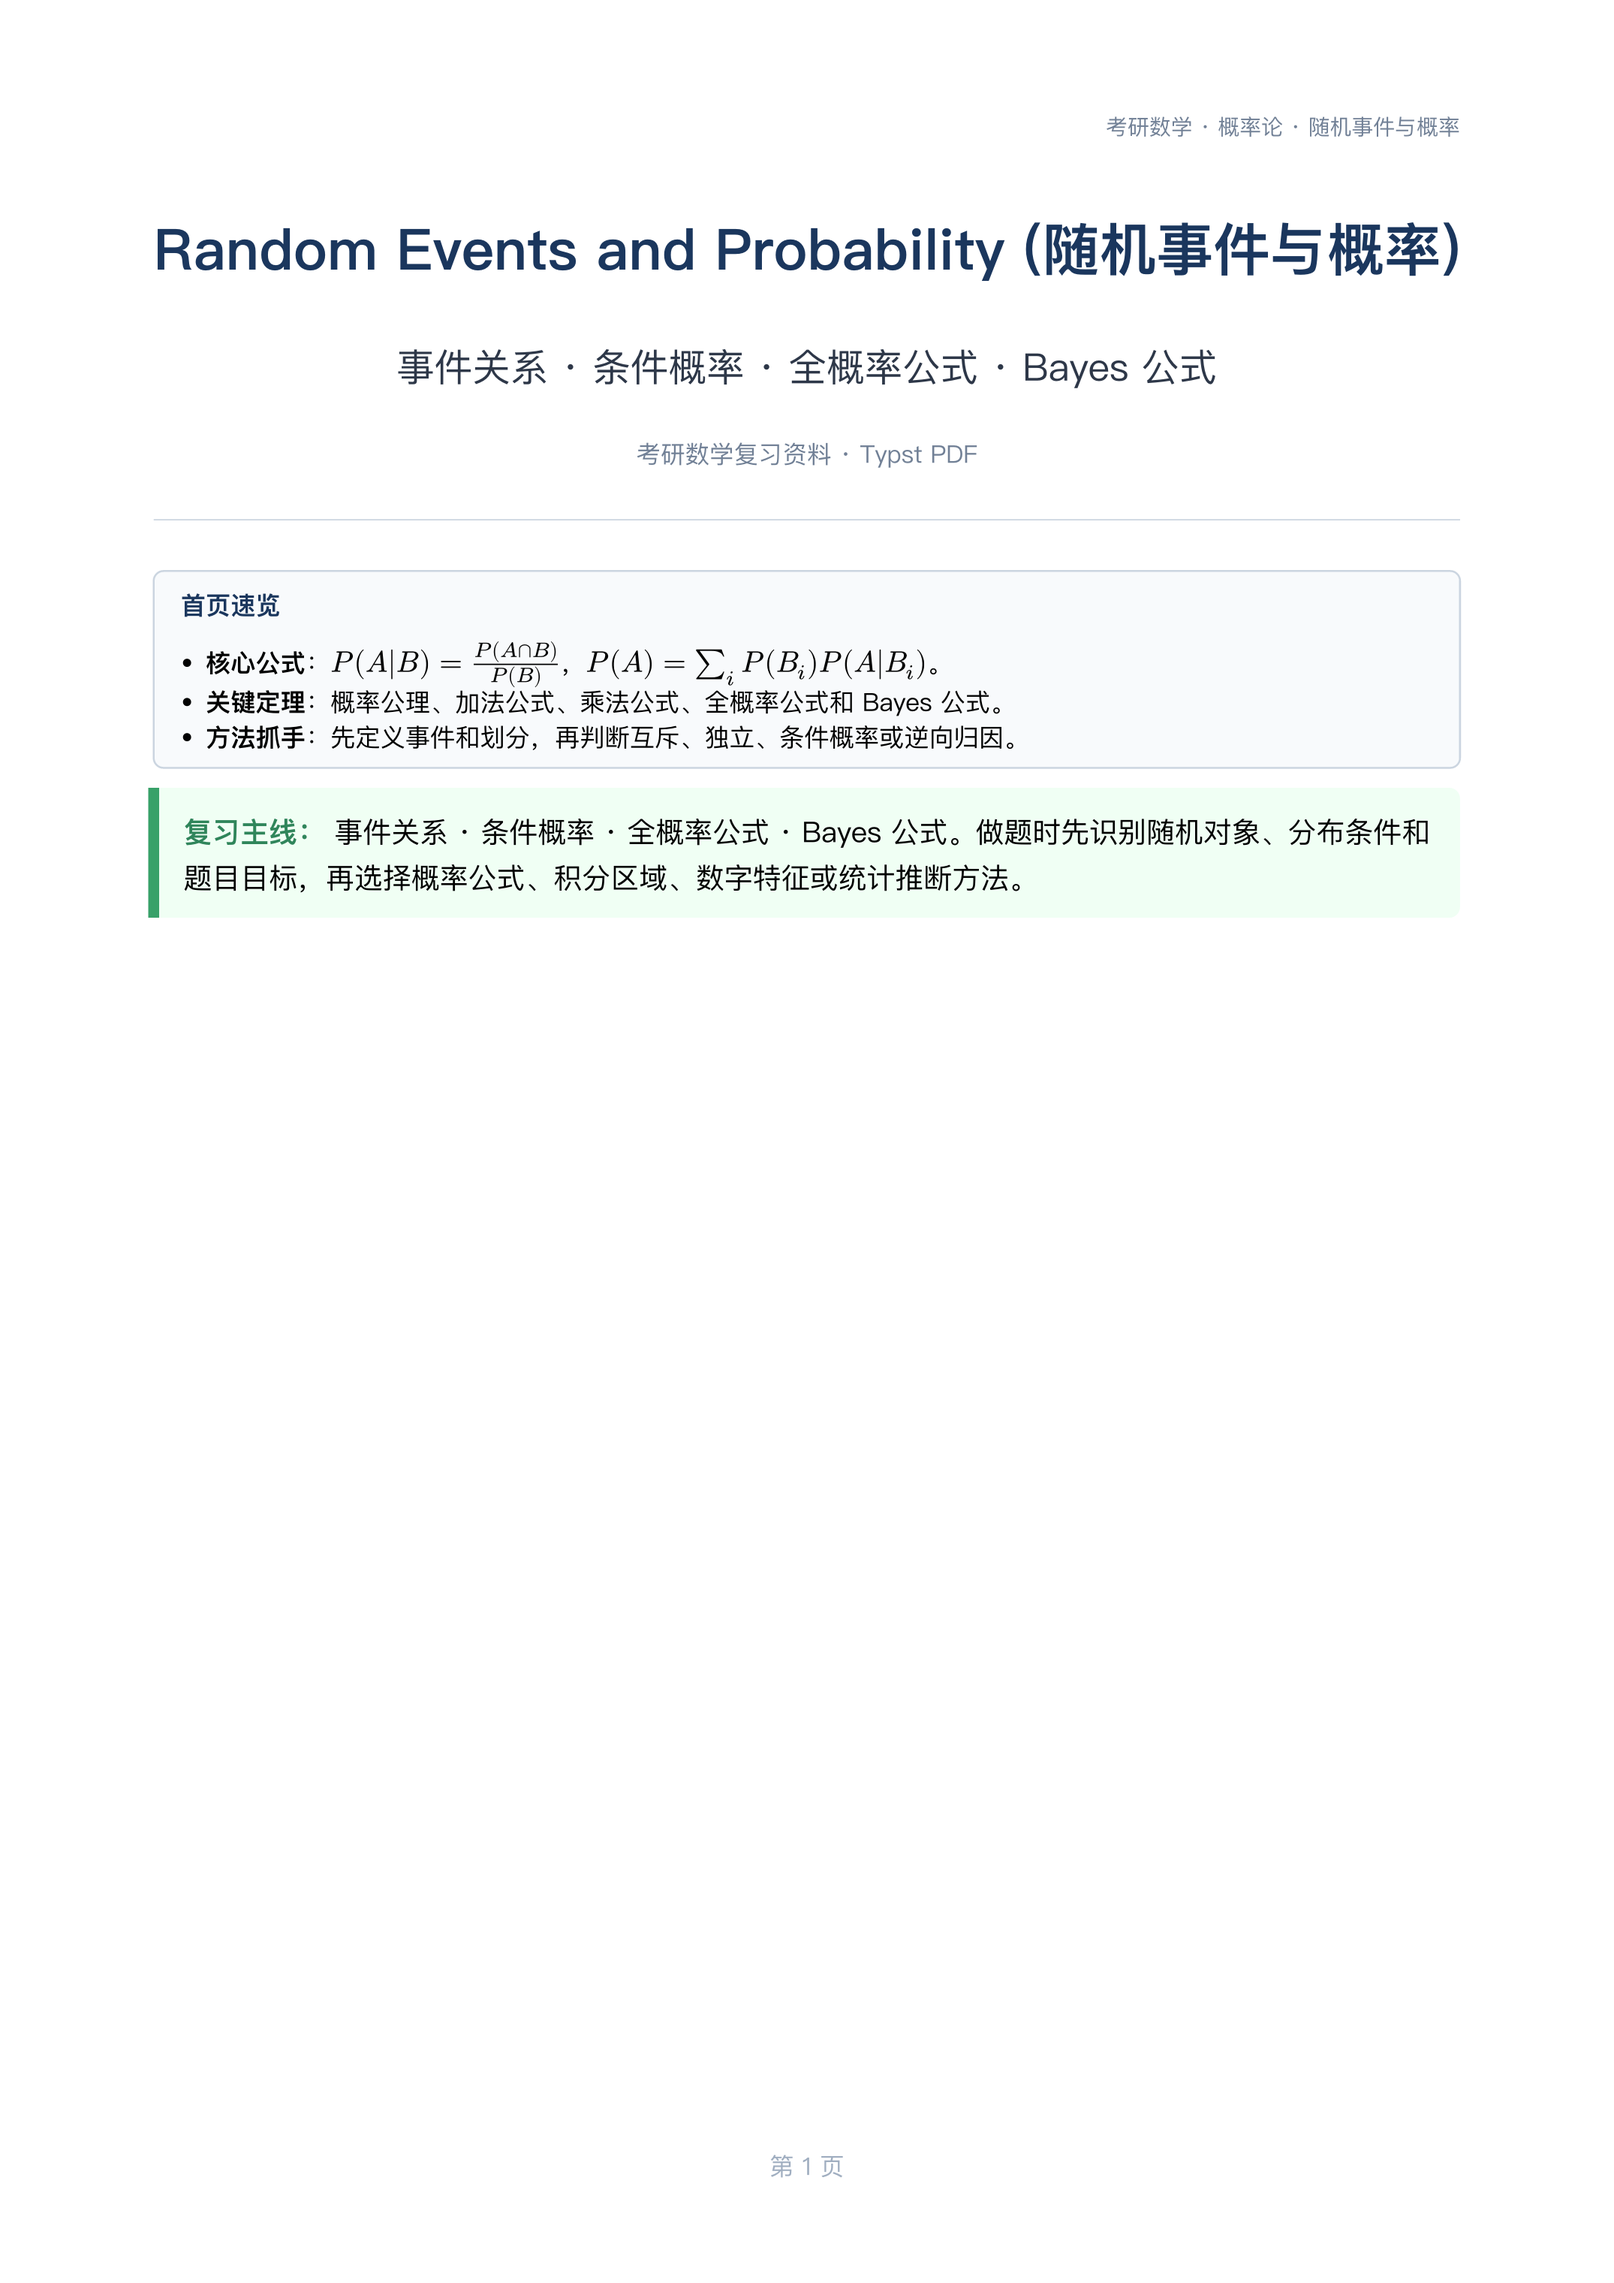
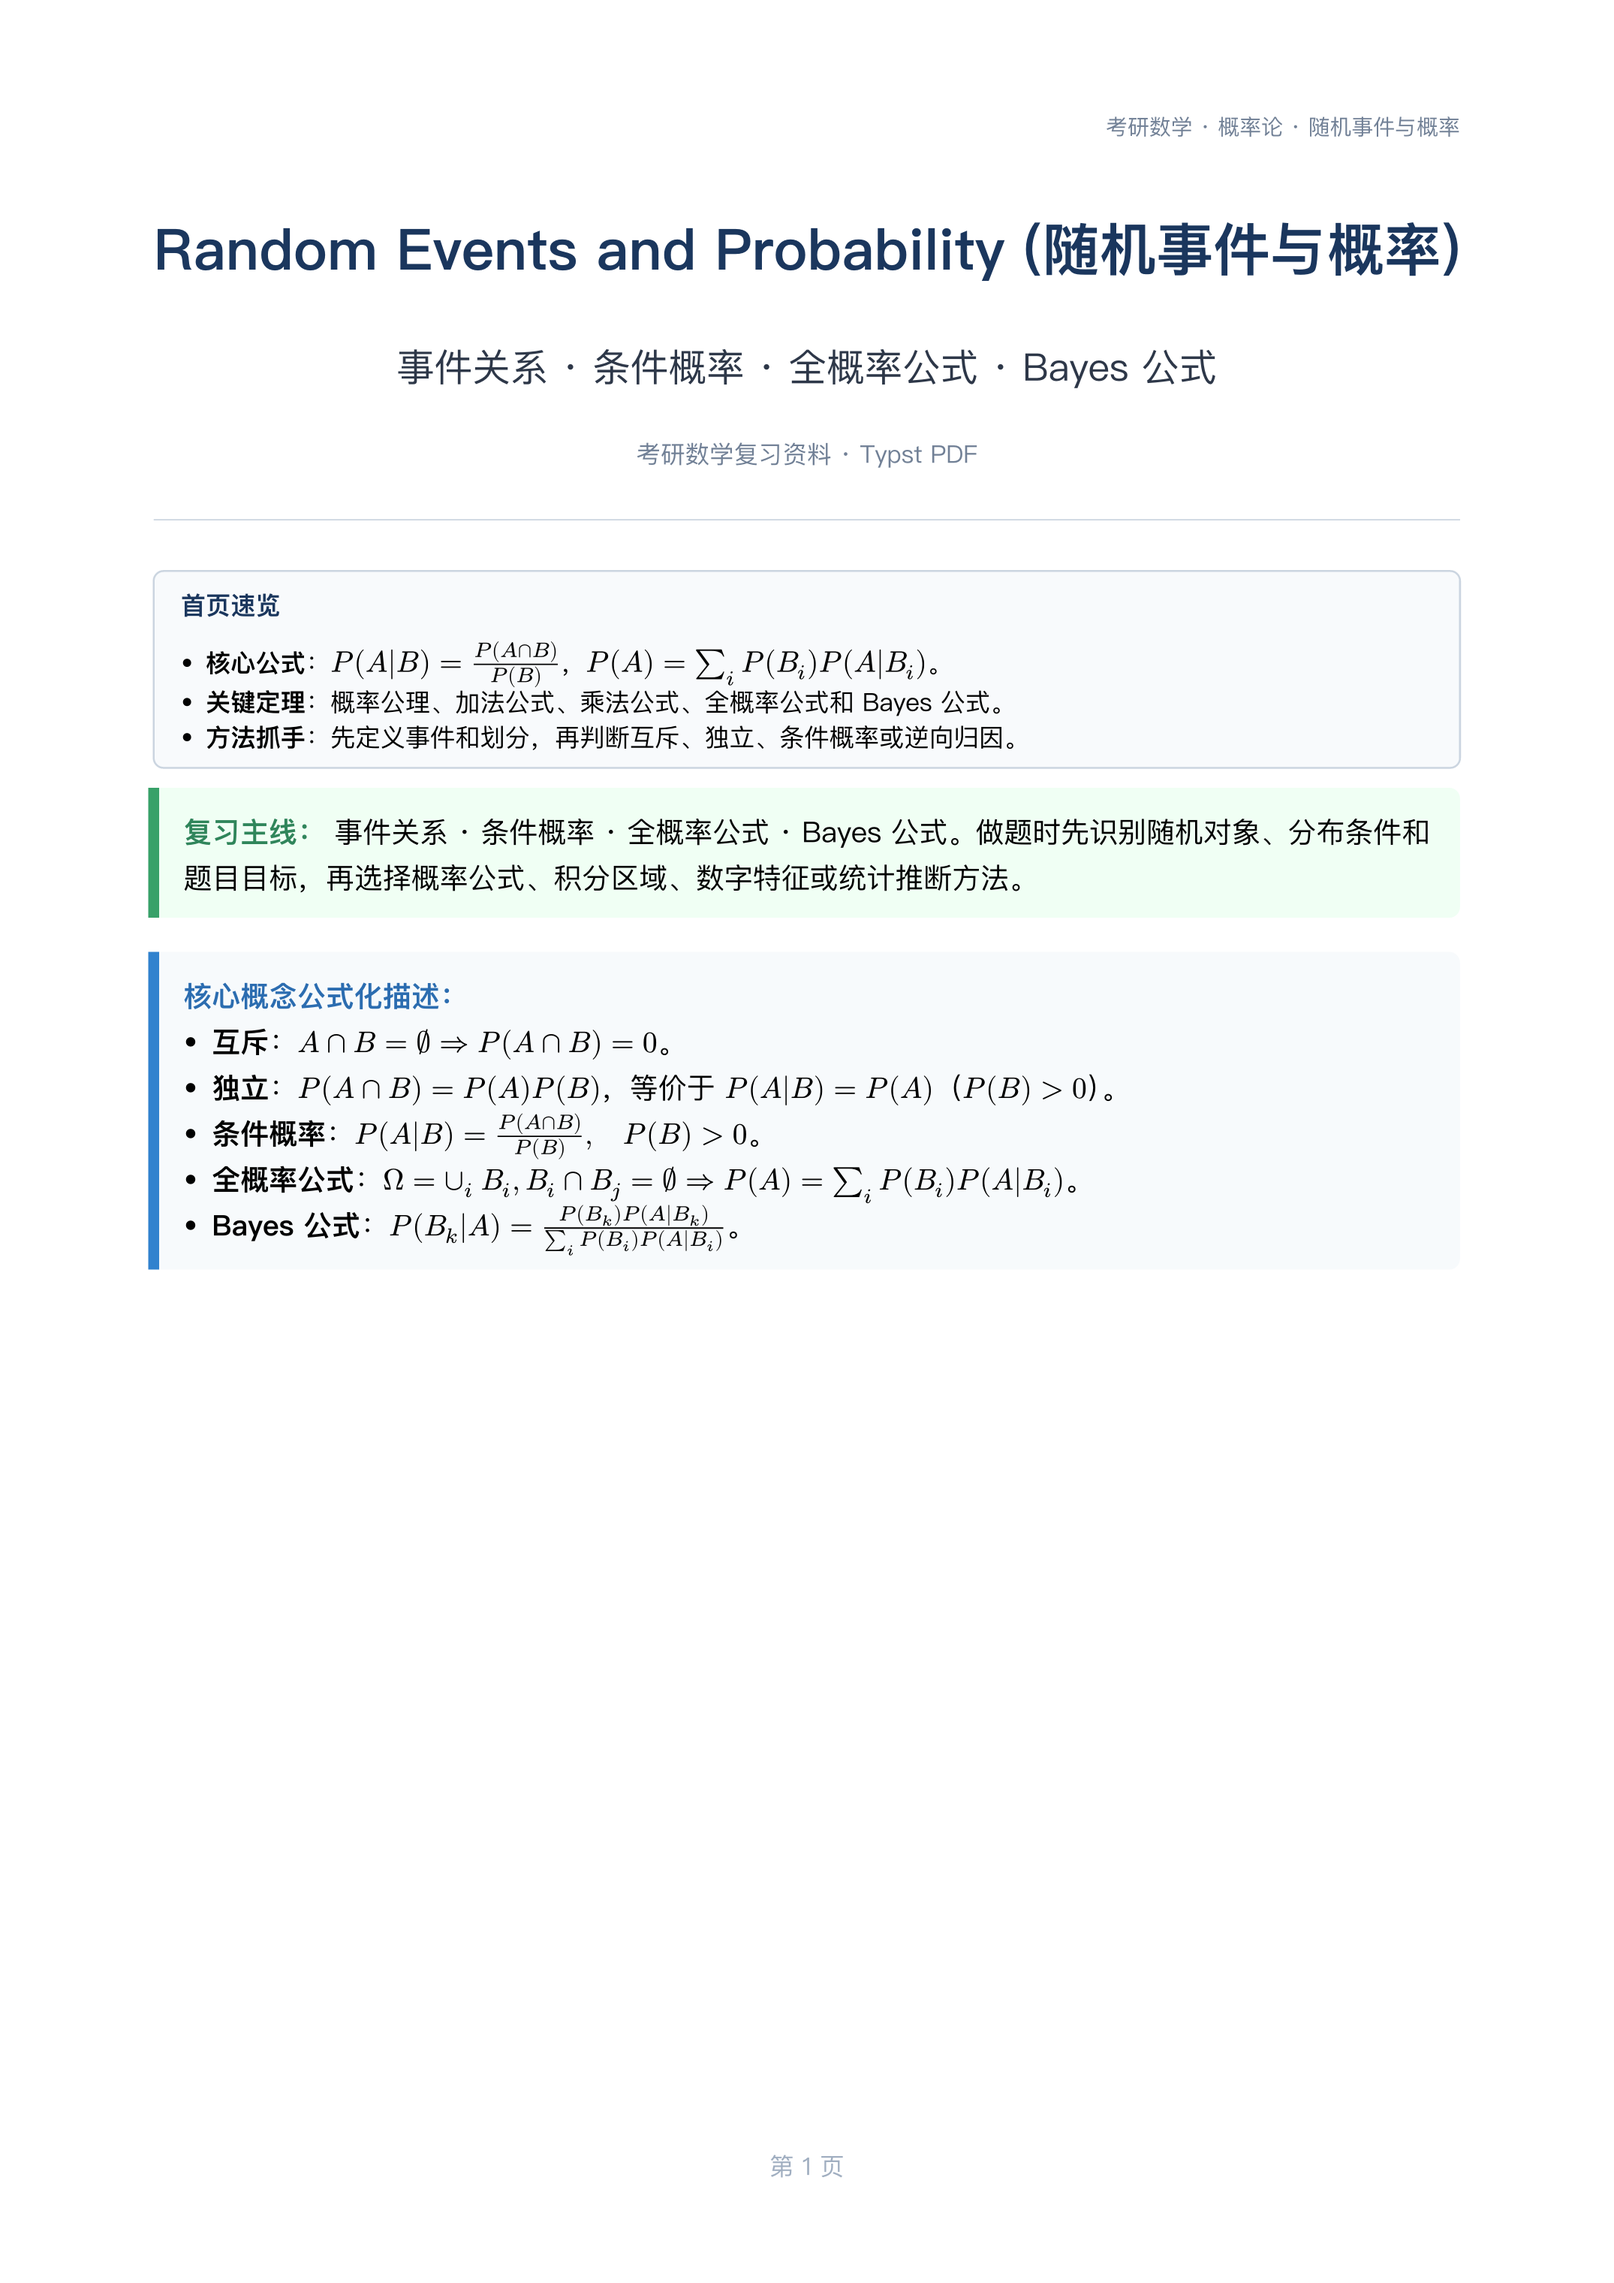
Add formula descriptions for core concepts

Changed region(s): [[0.0935, 0.4062, 0.2805, 0.5625], [0.3116, 0.4688, 0.4674, 0.5625], [0.6233, 0.5, 0.6544, 0.5312]]

diff --git a/ebook/data.js b/ebook/data.js
@@ -2,7 +2,7 @@
 window.BOOK_MANIFEST = {
   "title": "考研数学电子书",
   "subtitle": "微积分 · 线性代数 · 概率论",
-  "generatedAt": "2026-08-04T15:50:53+08:00",
+  "generatedAt": "2026-08-04T18:39:14+08:00",
   "stats": {
     "documents": 23,
     "pages": 258,

diff --git a/README.md b/README.md
@@ -87,4 +87,4 @@ http://127.0.0.1:8765/ebook/index.html
 
 极限部分先抓左右极限、等价无穷小和连续性；一元微分先抓导数定义、求导法则和中值定理；一元积分先抓换元、分部积分、对称性和变上限积分；多元微分先抓偏导、全微分、梯度和极值。二重积分先抓区域、换序、对称性和估值，三重积分先抓投影、坐标变换和对称平面，微分方程先抓类型和标准形式，无穷级数先抓分类和判别法，多元函数积分学先抓向量几何、场论算子、积分对象、方向和封闭性。做形心质心题时先判断是否均匀；遇到曲线积分或曲面积分时，先判断对象是否闭合，再选择格林公式、高斯公式或斯托克斯公式。
 
-日常新增问题时，优先判断问题所属章节：若主题明确，直接追加到对应 Typst 源文件；若归属暂时不确定，先标记为待归类并尽快归入正式章节。章节 Typst 更新后运行 `python3 ebook/scripts/build_index.py`，即可让网页目录、页面图片和搜索结果同步最新内容。
+日常新增问题时，优先判断问题所属章节：若主题明确，直接追加到对应 Typst 源文件；若归属暂时不确定，先标记为待归类并尽快归入正式章节。新增或改写定理、概念时，优先补充“公式化描述”，采用“适用条件 => 数学结论/判定式”的形式，避免只保留文字解释。章节 Typst 更新后运行 `python3 ebook/scripts/build_index.py`，即可让网页目录、页面图片和搜索结果同步最新内容。

diff --git a/ebook/README.md b/ebook/README.md
@@ -14,6 +14,7 @@
 - 页面图片采用视口附近加载、当前页前后轻量预加载和空闲后台小批量预加载策略；后台页图使用低优先级 eager 请求，减少首屏等待，同时让停留阅读时真正预热后续页面。
 - HTTPS 或本地 HTTP 服务下会注册 Service Worker：静态阅读壳优先网络更新并缓存兜底，已访问页图优先从本地缓存读取；直接 `file://` 打开时自动退回普通加载模式。
 - 搜索索引直接来自 Typst 源文本，并用 Typst 查询一级标题所在页码。
+- 核心章节在首页或开篇补充“公式化描述”块，用“适用条件 => 数学结论/判定式”串联概念与定理。
 - 使用 `data.js` 内嵌目录与索引数据，支持直接打开 `index.html`。
 
 ## 使用方法
